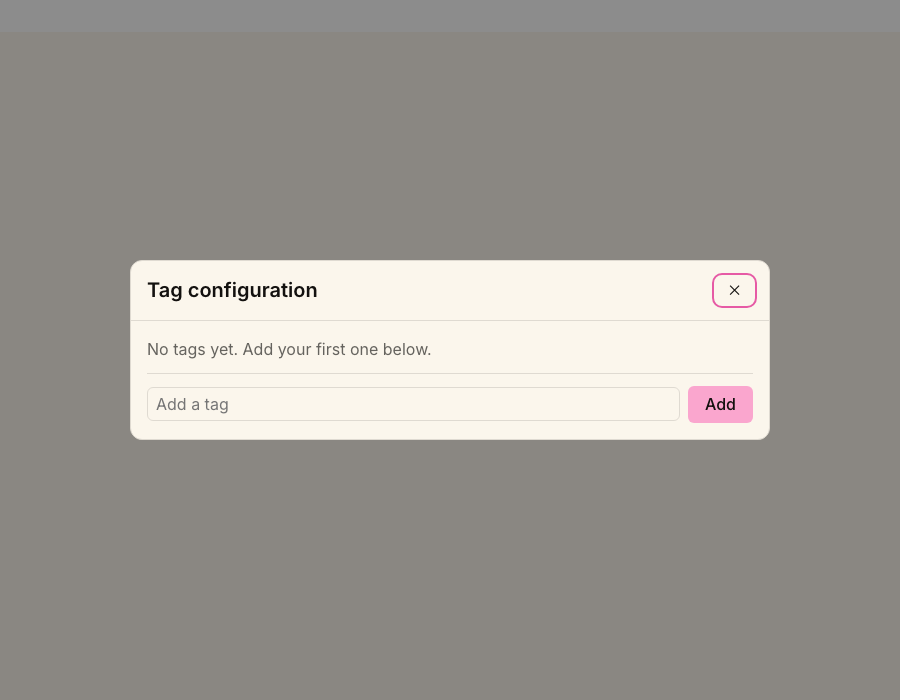
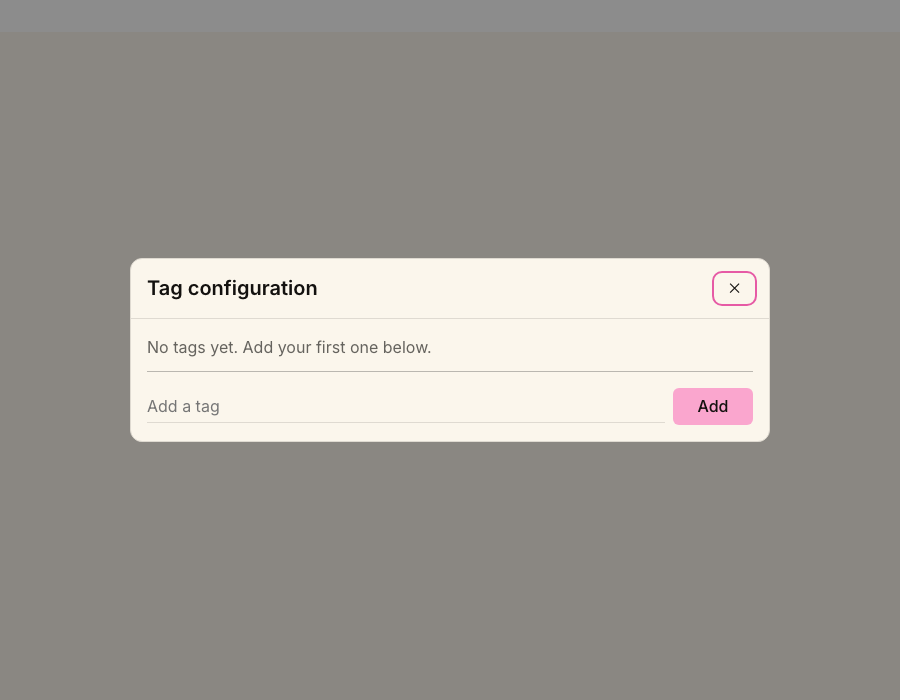
chore(tag): flatten the configuration overlay

Changed region(s): [[0.1556, 0.36, 0.84, 0.45], [0.1556, 0.54, 0.84, 0.63], [0.1556, 0.48, 0.4978, 0.54]]

diff --git a/src/tag/TagEditor.module.scss b/src/tag/TagEditor.module.scss
@@ -1,15 +1,12 @@
 .editor {
   display: flex;
   flex-direction: column;
-  gap: var(--space-3);
-  padding: var(--space-3);
-  border: 1px solid var(--color-border);
-  border-radius: var(--radius-3);
-  background-color: var(--color-surface);
+  gap: var(--space-2);
+  padding-block: var(--space-3);
 }
 
 .retired {
-  opacity: 0.6;
+  opacity: 0.55;
 }
 
 .row {
@@ -19,8 +16,8 @@
 }
 
 .swatch {
-  width: 1.25rem;
-  height: 1.25rem;
+  width: 1rem;
+  height: 1rem;
   flex: none;
   border-radius: var(--radius-full);
 }
@@ -28,34 +25,54 @@
 .input {
   flex: 1;
   min-width: 0;
-  padding: var(--space-1) var(--space-2);
-  border: 1px solid var(--color-border);
-  border-radius: var(--radius-2);
-  background-color: var(--color-background);
+  padding: var(--space-1) 0;
+  border: none;
+  border-bottom: 1px solid var(--color-border);
+  border-radius: 0;
+  background-color: transparent;
   color: var(--color-text);
 }
 
+.input:hover,
+.input:focus {
+  border-bottom-color: var(--color-border-strong);
+}
+
+.slider {
+  flex: 1;
+  min-width: 0;
+  background: none;
+}
+
 .number {
-  width: 4rem;
+  width: 3.5rem;
   flex: none;
 }
 
 .label {
+  flex: none;
+  width: 4rem;
   color: var(--color-text-muted);
   font-size: var(--font-size-2);
+}
+
+/* Every right hand control shares a width, so the column stays flush. */
+.action {
+  flex: none;
+  min-width: 5rem;
 }
 
 .options {
   display: flex;
   flex-direction: column;
   gap: var(--space-2);
-  padding-left: var(--space-3);
-  border-left: 2px solid var(--color-border);
+  padding-left: var(--space-5);
 }
 
 .problems {
   margin: 0;
-  padding: 0;
+  padding-left: var(--space-5);
   color: var(--color-accent);
   font-size: var(--font-size-2);
+  list-style: none;
 }

diff --git a/src/tag/TagEditor.tsx b/src/tag/TagEditor.tsx
@@ -48,8 +48,9 @@ export function TagEditor(props: TagEditorProps): JSX.Element {
         />
 
         <Button
-          variant={props.tag.active ? 'secondary' : 'ghost'}
+          variant="secondary"
           size="sm"
+          class={styles.action}
           onClick={() => {
             change({ ...props.tag, active: !props.tag.active })
           }}
@@ -63,7 +64,7 @@ export function TagEditor(props: TagEditorProps): JSX.Element {
 
         <input
           type="range"
-          class={styles.input}
+          class={styles.slider}
           aria-label="Tag colour"
           min="0"
           max="359"
@@ -88,8 +89,9 @@ export function TagEditor(props: TagEditorProps): JSX.Element {
               />
 
               <Button
-                variant={option.active ? 'secondary' : 'ghost'}
+                variant="secondary"
                 size="sm"
+                class={styles.action}
                 onClick={() => {
                   change(toggleOption(props.tag, option.id, option))
                 }}
@@ -111,7 +113,7 @@ export function TagEditor(props: TagEditorProps): JSX.Element {
             }}
           />
 
-          <Button size="sm" onClick={addOption}>
+          <Button size="sm" class={styles.action} onClick={addOption}>
             Add
           </Button>
         </div>

diff --git a/src/tag/TagConfigMenu.module.scss b/src/tag/TagConfigMenu.module.scss
@@ -1,29 +1,39 @@
-.list {
-  display: flex;
-  flex-direction: column;
-  gap: var(--space-3);
+/* A hairline between tags, rather than a card around each one. */
+.list > * + * {
+  border-top: 1px solid var(--color-border);
 }
 
 .add {
   display: flex;
   align-items: center;
   gap: var(--space-2);
-  padding-top: var(--space-3);
-  border-top: 1px solid var(--color-border);
+  padding-top: var(--space-4);
+  border-top: 1px solid var(--color-border-strong);
   margin-top: var(--space-3);
 }
 
 .input {
   flex: 1;
   min-width: 0;
-  padding: var(--space-1) var(--space-2);
-  border: 1px solid var(--color-border);
-  border-radius: var(--radius-2);
-  background-color: var(--color-background);
+  padding: var(--space-1) 0;
+  border: none;
+  border-bottom: 1px solid var(--color-border);
+  border-radius: 0;
+  background-color: transparent;
   color: var(--color-text);
+}
+
+.input:hover,
+.input:focus {
+  border-bottom-color: var(--color-border-strong);
 }
 
 .empty {
   margin: 0;
   color: var(--color-text-muted);
+}
+
+.action {
+  flex: none;
+  min-width: 5rem;
 }

diff --git a/src/tag/TagConfigMenu.tsx b/src/tag/TagConfigMenu.tsx
@@ -47,7 +47,9 @@ export function TagConfigMenu(props: TagConfigMenuProps): JSX.Element {
           }}
         />
 
-        <Button onClick={add}>Add</Button>
+        <Button class={styles.action} onClick={add}>
+          Add
+        </Button>
       </div>
     </Dialog>
   )
